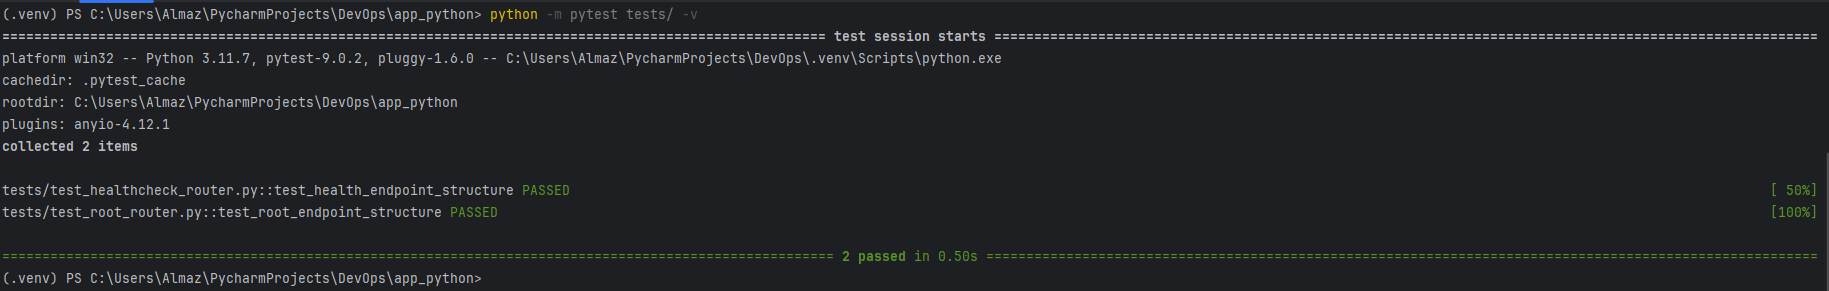
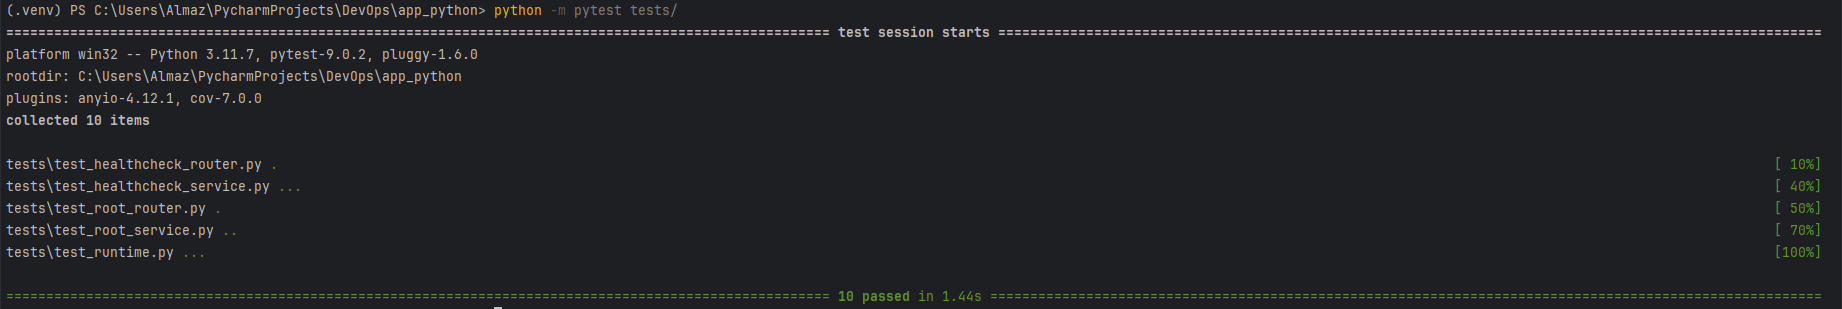
fix

diff --git a/app_python/tests/test_healthcheck_service.py b/app_python/tests/test_healthcheck_service.py
@@ -1,0 +1,34 @@
+import pytest
+from routes.healthcheck.service import HealthCheckService
+from routes.healthcheck.schemas import HealthCheckResponse
+from core.runtime import set_start_time
+
+
+@pytest.fixture
+def healthcheck_service():
+    set_start_time()
+    return HealthCheckService()
+
+
+def test_healthcheck_service_health_check_success(healthcheck_service):
+    result = healthcheck_service.health_check()
+    
+    HealthCheckResponse(**result.model_dump())
+
+
+def test_healthcheck_service_health_check_structure(healthcheck_service):
+    result = healthcheck_service.health_check()
+    
+    validated = HealthCheckResponse(**result.model_dump())
+    
+    assert validated.status == "healthy"
+    assert isinstance(validated.timestamp, str)
+    assert isinstance(validated.uptime_seconds, int)
+
+
+def test_healthcheck_service_health_check_uptime(healthcheck_service):
+    result = healthcheck_service.health_check()
+    
+    validated = HealthCheckResponse(**result.model_dump())
+    
+    assert validated.uptime_seconds >= 0

diff --git a/app_python/tests/test_root_service.py b/app_python/tests/test_root_service.py
@@ -1,0 +1,39 @@
+import pytest
+from fastapi import Request
+from routes.root.service import RootService
+from routes.root.schemas import SystemInfoResponse
+from core.runtime import set_start_time
+
+
+@pytest.fixture
+def root_service():
+    set_start_time()
+    return RootService()
+
+
+@pytest.fixture
+def mock_request():
+    from unittest.mock import Mock
+    
+    request = Mock(spec=Request)
+    request.client = Mock()
+    request.client.host = "127.0.0.1"
+    request.headers = {"user-agent": "test-agent"}
+    request.method = "GET"
+    request.url = Mock()
+    request.url.path = "/"
+    
+    return request
+
+
+def test_root_service_system_info_success(root_service, mock_request):
+    result = root_service.system_info(mock_request)
+    
+    SystemInfoResponse(**result.model_dump())
+
+
+def test_root_service_system_info_structure(root_service, mock_request):
+    result = root_service.system_info(mock_request)
+
+    assert len(SystemInfoResponse(**result.model_dump()).endpoints) >= 2
+

diff --git a/app_python/tests/test_runtime.py b/app_python/tests/test_runtime.py
@@ -1,0 +1,33 @@
+from datetime import datetime
+from core.runtime import set_start_time, get_uptime
+import core.runtime
+
+
+def test_set_start_time():
+    set_start_time()
+    assert core.runtime.START_TIME is not None
+    assert isinstance(core.runtime.START_TIME, datetime)
+
+
+def test_get_uptime_success():
+    set_start_time()
+    uptime = get_uptime()
+    
+    assert "seconds" in uptime
+    assert "human" in uptime
+    assert isinstance(uptime["seconds"], int)
+    assert isinstance(uptime["human"], str)
+    assert uptime["seconds"] >= 0
+    assert "hours" in uptime["human"]
+    assert "minutes" in uptime["human"]
+
+
+def test_get_uptime_increases():
+    set_start_time()
+    import time
+    
+    uptime1 = get_uptime()
+    time.sleep(1)
+    uptime2 = get_uptime()
+    
+    assert uptime2["seconds"] >= uptime1["seconds"]

diff --git a/app_python/docs/LAB03.md b/app_python/docs/LAB03.md
@@ -1,8 +1,13 @@
 ## Testing framework 
 I used pytest framework because of it is simple and easy to use. It also has a lot of features that makes testing easier.
+
 ## Testing code locally
 ![07-tests-locally.png](screenshots/07-tests-locally.png)
 All tests passed successfully.
+
+## Tests are cover
+Tests cover routers, services and runtime modules. Config module is not covered because it is just a simple module that loads environment variables and does not contain any logic that needs to be tested.
+Also some services are partially covered because they contain some logic that is not covered by tests.
 
 ## Versioning Strategy
 I chose to use semantic versioning strategy because my program will have regular updates. It will be easy to manage and understand the changes in the program.
@@ -10,3 +15,28 @@ I chose to use semantic versioning strategy because my program will have regular
 ## CI/CD Status Badge
 https://github.com/andiazdi/DevOps-Core-Course/actions/workflows/python-ci.yml/badge.svg
 
+## CI/CD Successful Run
+https://github.com/andiazdi/DevOps-Core-Course/actions/runs/21919710740
+
+## Sync Security Scan
+![08-security-scan.png](screenshots/08-security-scan.png)
+No vulnerabilities found in the code.
+
+## Docker Hub Image
+![10-dockerhub-tags.png](screenshots/10-dockerhub-tags.png)
+At every new tag on GitHub, a new image is built and published to Docker Hub with 3 tags - latest, major and minor. For example, for version 1.0.1, the tags will be latest, 1.0 and 1.0.1
+
+## CI Best Practices
+1. Caching dependencies to speed up the build process.
+2. Splitting the build process into jobs to make it easier to manage and debug.
+3. Using `needs` to define dependencies between jobs to ensure that they run in the correct order.
+4. Using GitHub secrets to store sensitive information such as API keys and credentials. 
+5. For simple pushes, only tests are run; for tags, builds and image publication to Docker Hub are triggered to avoid unnecessary builds and deployments.
+
+## Caching results
+After caching takes around 5 seconds to install dependencies while without caching it takes around 10-15 seconds.
+
+## Coverage percentage
+![09-test-coverage.png](screenshots/09-test-coverage.png)
+The test coverage is 82.94% which means all the code is covered by tests which is higher than the required 70%.
+Results are pretty acceptable. Almost all code is covered by tests but config and some services are either not covered or partially covered.

diff --git a/app_python/README.md b/app_python/README.md
@@ -50,6 +50,16 @@ Or by using Uvicorn:
 uvicorn app:app --host 0.0.0.0 --port 5000
 ```
 
+## Testing the service
+```bash
+cd app_python
+python -m pytest tests/
+```
+Or test with coverage:
+```bash
+python -m pytest tests/ --cov=. --cov-report=xml --cov-report=term --cov-fail-under=70
+```
+
 ## ⚙ Configuration 
 
 | Variable              | Default value              | Description                |
@@ -62,7 +72,7 @@ uvicorn app:app --host 0.0.0.0 --port 5000
 | `PORT`                | 5000                       | Server port                |
 
 
-## 📡 API Эндпоинты
+##  API Endpoints
 
 ### 1. Root endpoint
 
